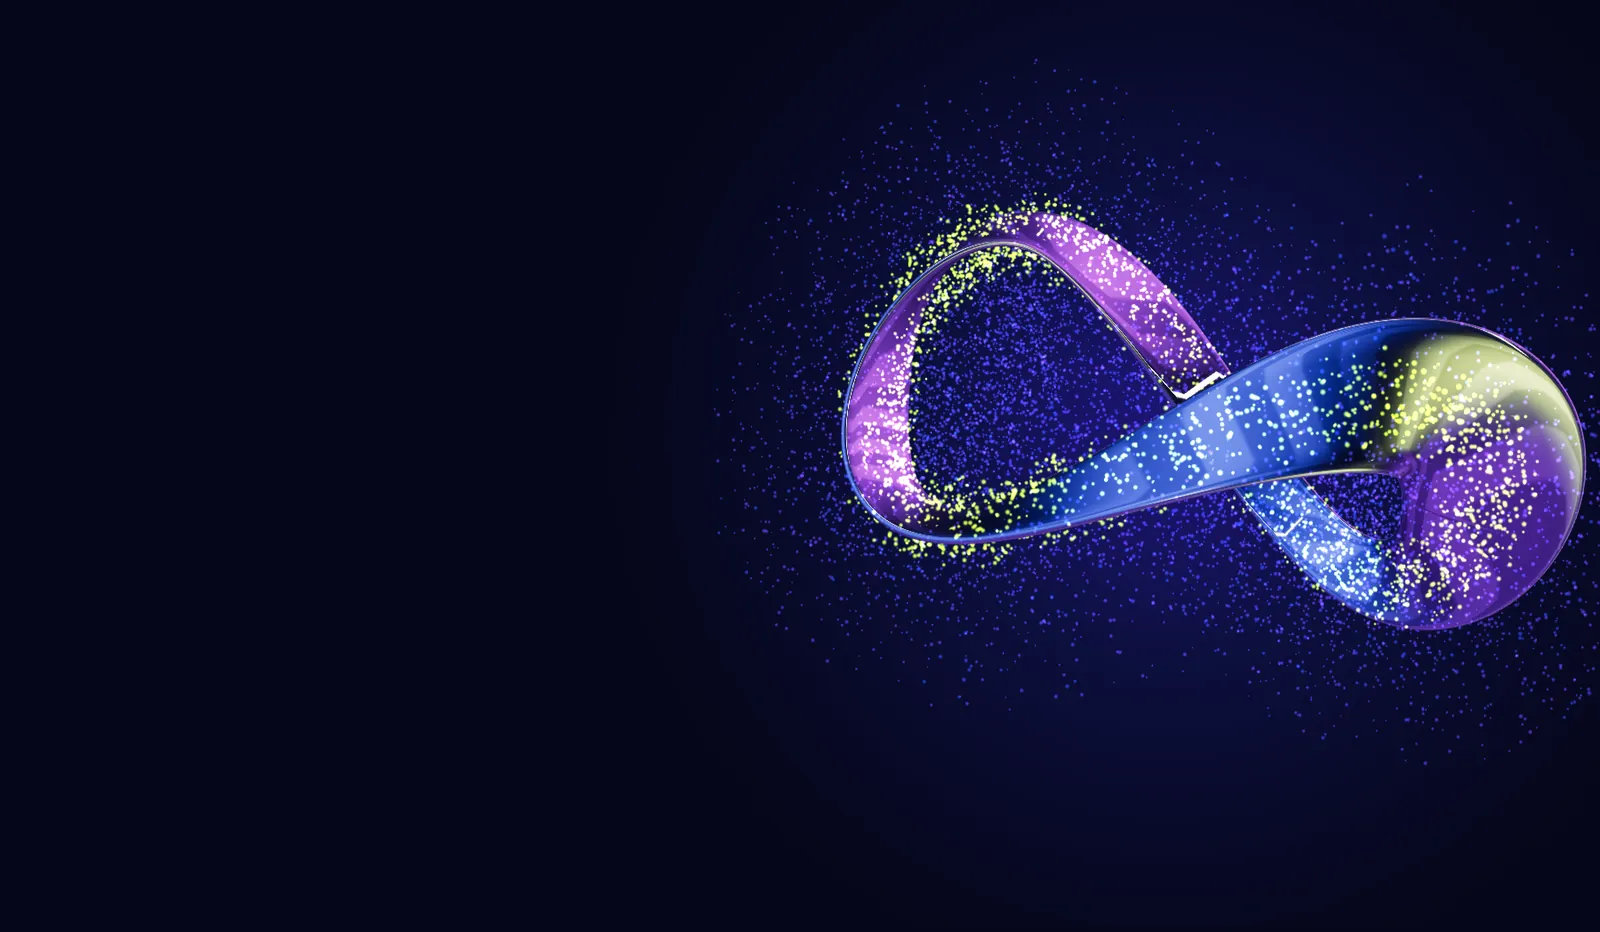
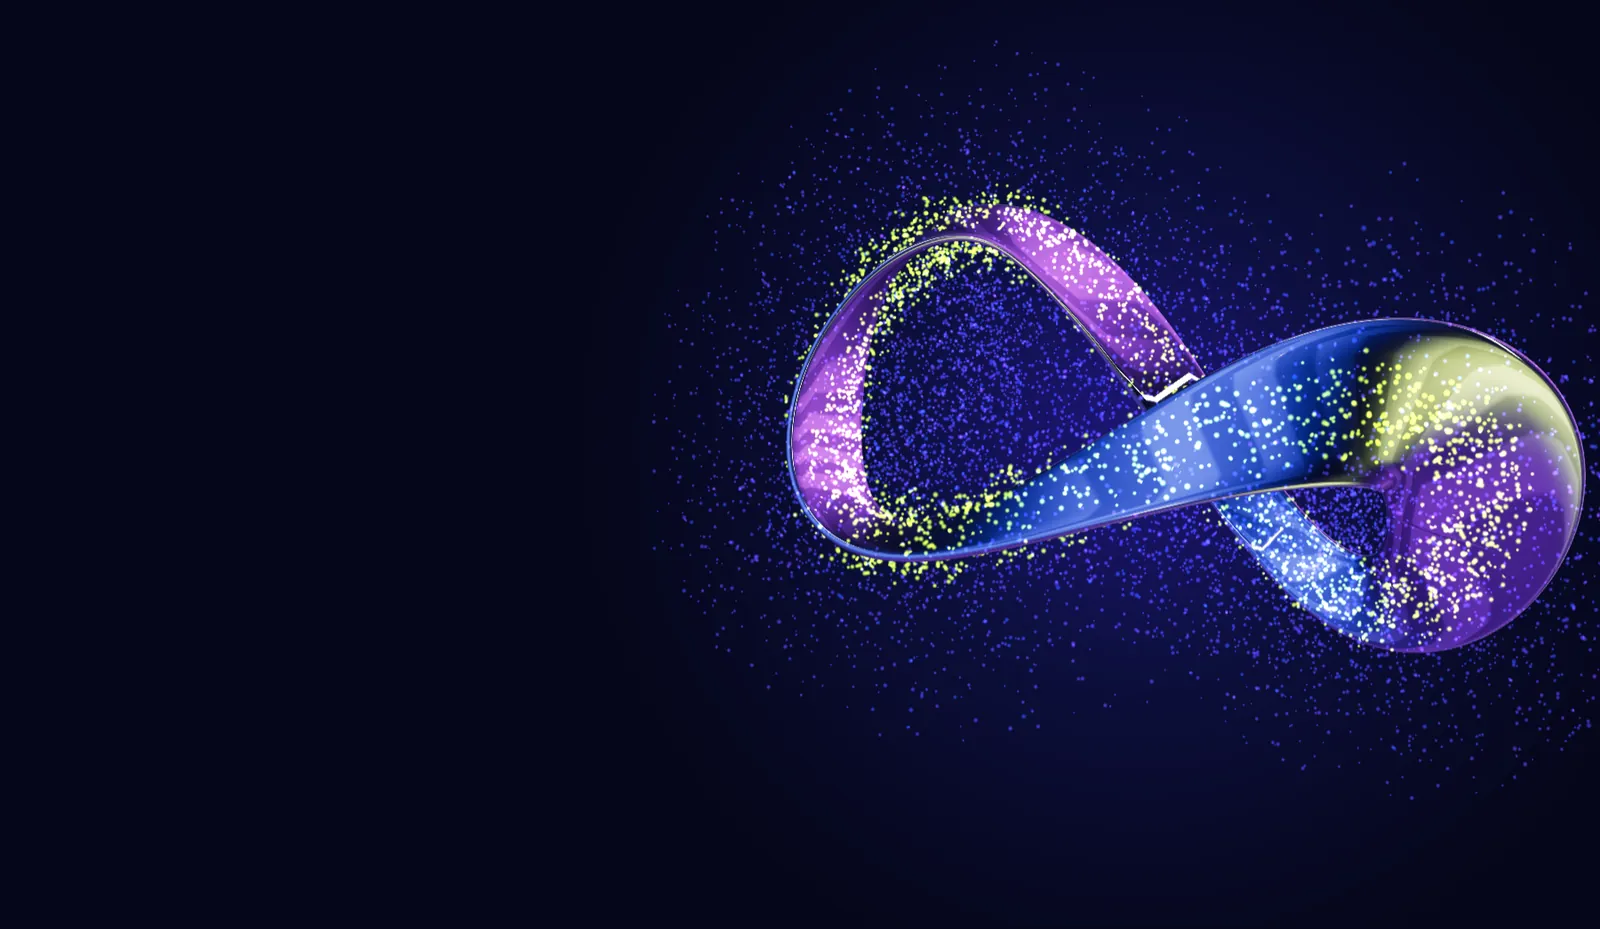
Refine hero typography and hierarchy
- Headline reduced (max 4.1rem, was 6.9rem) and set at weight 600
- Supporting text, kicker, guarantee line and facts made smaller and
  quieter; more space between headline, text and call to action
- Copy now sits in the vertical centre left of the ribbon, facts at the foot
- Header call to action is outlined instead of a filled block
- Ribbon framed slightly larger; fallback stills regenerated to match

Claude-Session: https://claude.ai/code/session_01PrPkbqqwN44Y915oZZR9Sk

Changed region(s): [[0.4375, 0.1249, 1.0, 0.8116]]

diff --git a/css/site.css b/css/site.css
@@ -120,20 +120,20 @@ em{font-style:italic;}
 .site-header{padding-block:22px;}
 .site-header--over{position:absolute;inset:0 0 auto;z-index:5;}
 .site-header .wrap{display:flex;align-items:center;justify-content:space-between;gap:24px;}
-.wordmark{font-family:var(--display);font-weight:800;font-size:1.25rem;line-height:1;letter-spacing:-.04em;text-decoration:none;white-space:nowrap;}
+.wordmark{font-family:var(--display);font-weight:800;font-size:1.0625rem;line-height:1;letter-spacing:-.04em;text-decoration:none;white-space:nowrap;}
 .wordmark em{font-style:normal;color:var(--lime);}
 .nav{display:flex;align-items:center;gap:clamp(18px,2.4vw,36px);font-size:.875rem;color:var(--chrome);}
 .nav a{text-decoration:none;transition:color .2s ease;}
 .nav a:hover{color:var(--ink);}
-.nav a.nav-cta{color:var(--abyss);background:var(--ink);padding:10px 16px;font-weight:600;}
-.nav a.nav-cta:hover{background:var(--lime);}
+.nav a.nav-cta{color:var(--ink);border:1px solid rgba(244,241,234,.4);padding:9px 15px;font-weight:500;transition:background-color .2s ease,color .2s ease,border-color .2s ease;}
+.nav a.nav-cta:hover{background:var(--lime);border-color:var(--lime);color:#0A0D05;}
 .nav-toggle{display:none;background:none;border:0;font-size:.875rem;cursor:pointer;padding:6px 0;}
 
 /* ---------- Hero ----------
    The 3D scene (js/scene.js) draws into the canvas. Until it is running, and on
    devices that never run it, the backdrop gradient or the still image stands in.
    The headline, positioning and call to action are plain HTML and never wait for it. */
-.hero{position:relative;overflow:hidden;isolation:isolate;display:flex;flex-direction:column;justify-content:flex-end;
+.hero{position:relative;overflow:hidden;isolation:isolate;display:flex;flex-direction:column;
   min-height:clamp(680px,58vw,860px);padding-top:120px;padding-bottom:clamp(24px,3vw,40px);
   background:radial-gradient(60% 70% at 73% 46%,#1B1570 0%,#0C0F3C 40%,var(--abyss) 74%);}
 .hero-canvas,.hero-still{position:absolute;inset:0;width:100%;height:100%;z-index:-2;}
@@ -144,18 +144,21 @@ em{font-style:italic;}
 .scene-still .hero-canvas{display:none;}
 .hero::after{content:'';position:absolute;inset:0;z-index:-1;pointer-events:none;
   background:linear-gradient(90deg,rgba(5,6,26,.86) 0%,rgba(5,6,26,.4) 40%,rgba(5,6,26,0) 60%);}
-.hero > .wrap{width:100%;}
-.hero-copy{max-width:42rem;}
-.hero-kicker{font-size:.9375rem;color:var(--chrome);}
-.hero .display{margin-block:18px 24px;margin-left:-.04em;}
+/* The copy sits in the vertical centre of the space left of the ribbon; the facts are
+   pinned to the foot. Type is deliberately modest so the ribbon carries the scale. */
+.hero > .wrap{width:100%;flex:1;display:flex;flex-direction:column;}
+.hero-copy{max-width:34rem;margin-block:auto;padding-block:clamp(24px,4vw,56px);}
+.hero-kicker{font-size:.8125rem;line-height:1.5;color:var(--dim);}
+.hero .display{font-weight:600;font-size:clamp(2.2rem,4.4vw,4.1rem);line-height:1;letter-spacing:-.035em;margin-block:clamp(22px,2.4vw,32px) clamp(26px,2.8vw,38px);margin-left:-.03em;}
 .signal-word{color:var(--lime);}
-.hero .lede{color:var(--chrome);}
-.hero-actions{display:flex;flex-wrap:wrap;align-items:center;gap:16px 28px;margin-top:30px;}
-.hero-actions .fine{max-width:25em;}
-.hero-facts{display:grid;grid-template-columns:repeat(4,minmax(0,1fr));column-gap:var(--gap);margin-top:clamp(40px,5vw,72px);border-top:1px solid var(--line);}
-.hero-facts div{padding-top:14px;font-size:.875rem;}
-.hero-facts dt{color:var(--dim);}
-.hero-facts dd{color:var(--ink);margin-top:2px;}
+.hero .lede{font-size:1rem;line-height:1.65;color:#B4B9D0;max-width:27em;}
+.hero-actions{display:flex;flex-wrap:wrap;align-items:center;gap:16px 24px;margin-top:clamp(36px,3.6vw,52px);}
+.hero-actions .btn{padding:13px 20px;font-size:.875rem;}
+.hero-actions .fine{font-size:.8125rem;max-width:21em;}
+.hero-facts{display:grid;grid-template-columns:repeat(4,minmax(0,1fr));column-gap:var(--gap);border-top:1px solid rgba(212,217,230,.1);}
+.hero-facts div{padding-top:14px;font-size:.8125rem;line-height:1.5;}
+.hero-facts dt{font-size:.75rem;color:var(--dim);}
+.hero-facts dd{color:var(--chrome);}
 
 /* ---------- 01 Services ---------- */
 .services-intro{grid-column:3 / span 8;margin-bottom:clamp(40px,6vw,88px);}
@@ -391,11 +394,12 @@ em{font-style:italic;}
   .nav-toggle,.wordmark{position:relative;z-index:61;}
   body.nav-open{overflow:hidden;}
 
-  .hero{min-height:0;padding-top:330px;background:radial-gradient(120% 34% at 50% 20%,#1B1570 0%,#0C0F3C 46%,var(--abyss) 82%);}
+  .hero{min-height:0;padding-top:320px;background:radial-gradient(120% 34% at 50% 20%,#1B1570 0%,#0C0F3C 46%,var(--abyss) 82%);}
   .hero::after{background:linear-gradient(0deg,rgba(5,6,26,.94) 0%,rgba(5,6,26,.72) 52%,rgba(5,6,26,0) 72%);}
   .hero-still{object-position:50% 0;}
-  .hero-actions .btn{width:100%;}
-  .hero-facts{grid-template-columns:repeat(2,minmax(0,1fr));row-gap:6px;}
+  .hero-copy{padding-block:8px 44px;}
+  .hero-actions .btn{width:100%;justify-content:center;}
+  .hero-facts{grid-template-columns:repeat(2,minmax(0,1fr));row-gap:4px;}
 
   .services-intro{grid-column:1 / -1;}
   .service{row-gap:10px;}

diff --git a/js/scene.js b/js/scene.js
@@ -240,8 +240,8 @@
     function resize() {
       var w = hero.clientWidth, h = hero.clientHeight, aspect = w / h, narrow = w < 760;
       renderer.setSize(w, h, false); camera.aspect = aspect;
-      var z = Math.max(13.5, (narrow ? 3.4 : 7.2) / (HALF_FOV_TAN * aspect));
-      var halfH = HALF_FOV_TAN * z, cxp = narrow ? 0.5 : 0.73, cyp = narrow ? Math.min(190 / h, 0.3) : 0.46;
+      var z = Math.max(narrow ? 13.5 : 12.6, (narrow ? 3.4 : 6.7) / (HALF_FOV_TAN * aspect));
+      var halfH = HALF_FOV_TAN * z, cxp = narrow ? 0.5 : 0.71, cyp = narrow ? Math.min(185 / h, 0.3) : 0.47;
       camera.position.set(0, 0, z);
       holder.position.set((cxp - 0.5) * 2 * halfH * aspect, (0.5 - cyp) * 2 * halfH, 0);
       backdrop.uA.value = aspect; backdrop.uC.value.set(cxp, 1 - cyp);
